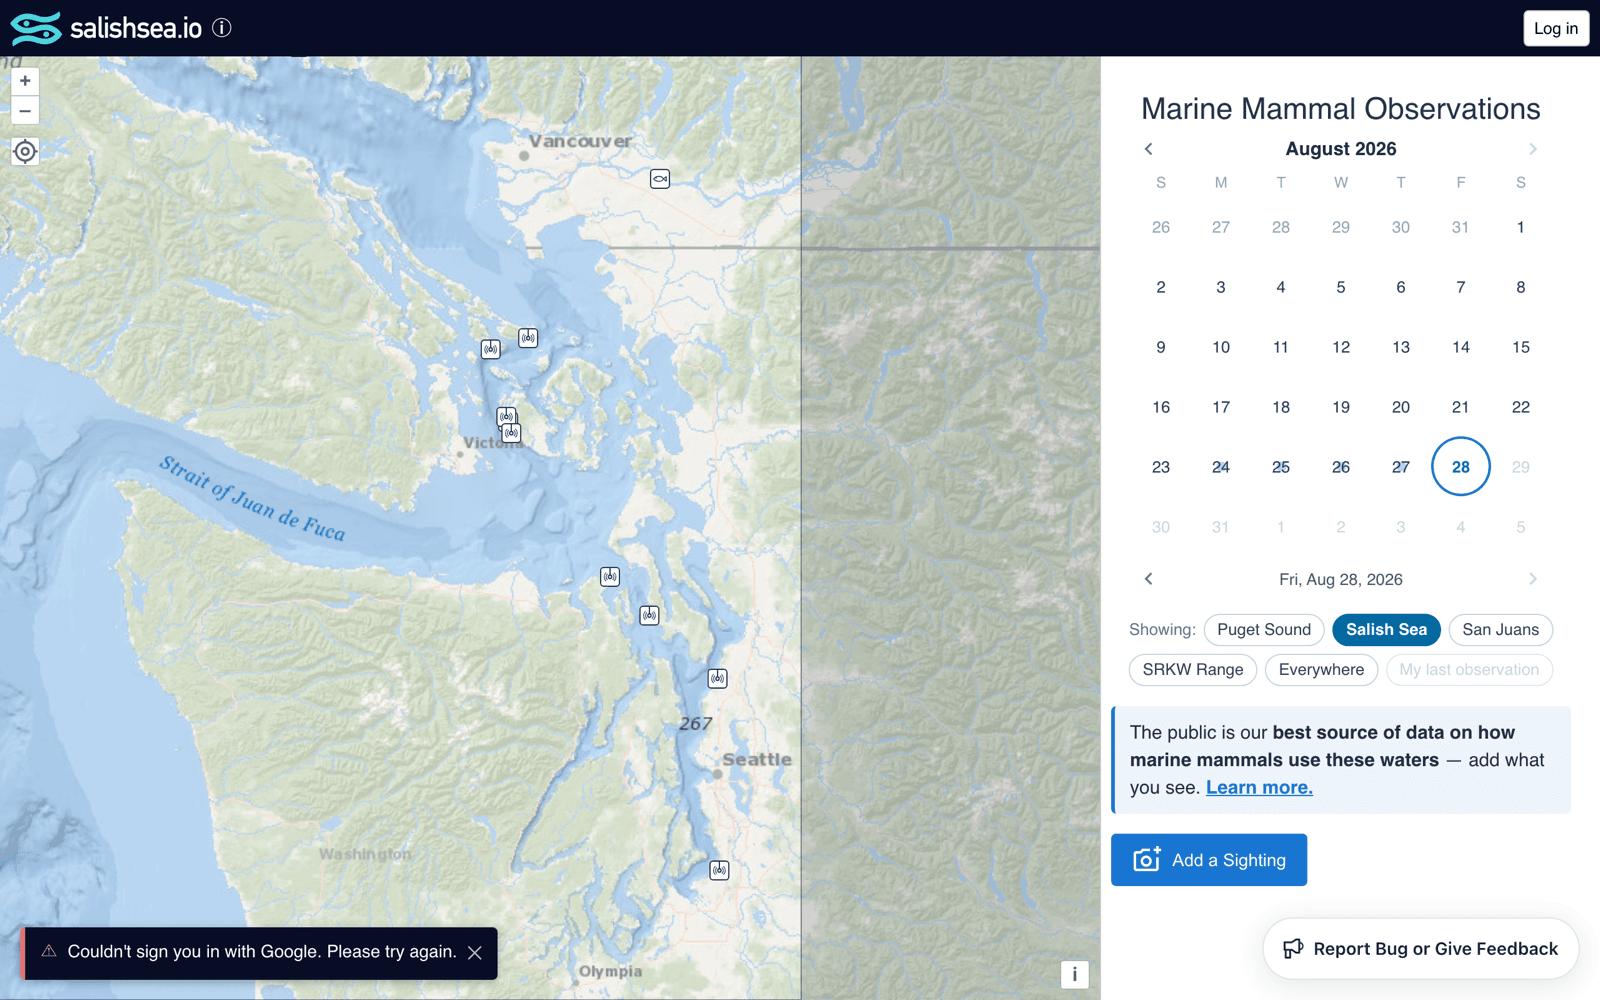
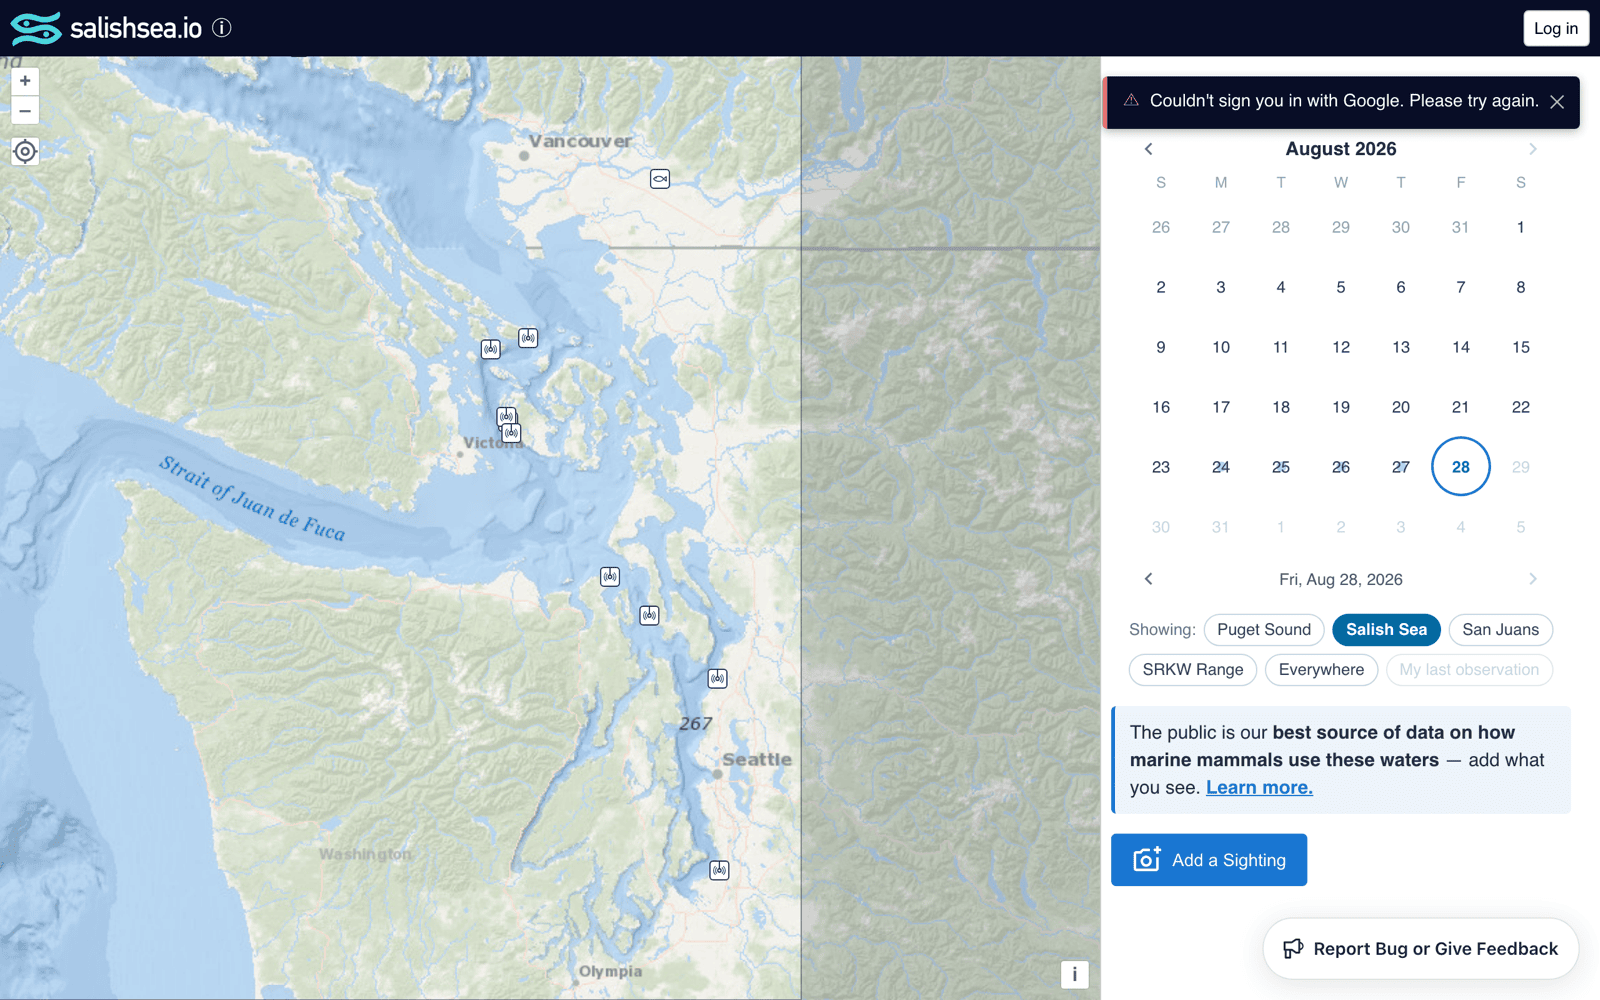
Move the toast under the button that triggers it
It first went bottom-left, over open water — the calmest place to put it
and the wrong one. The Log in button is in the opposite corner, and
someone who clicks it and sees nothing change has concluded the button
is broken before their eye reaches the message. It now hangs from the
top-right of `main`: under the Log in button, over the top of the
sightings panel where deleting happens, and positioned against `main`
so it clears the header without hardcoding the header's height.

Also closes two gaps CodeRabbit found, both real:

- A rejected signInWithIdToken promise reached a bare console.error
  rather than the reporting path its returned-error sibling uses, so a
  network failure during the exchange showed nothing and told Sentry
  nothing.
- A failed occurrence load reported even when the user had already moved
  to another date or region, which would claim a current, complete list
  was incomplete. Now guarded exactly as receiveOccurrences guards the
  success path, and for the same reason.

Claude-Session: https://claude.ai/code/session_01CHL7U2jAph4QaFN7eeCYrP

Changed region(s): [[0.6875, 0.062, 1.0, 0.155], [0.0, 0.93, 0.3125, 0.992]]

diff --git a/src/salish-sea.ts b/src/salish-sea.ts
@@ -117,6 +117,9 @@ export default class SalishSea extends LitElement {
 
     main {
       display: flex;
+      /* The toast hangs from this corner, so it clears the header without
+         anyone having to hardcode the header's height. */
+      position: relative;
       flex-direction: row;
       flex-grow: 1;
       min-height: 0;
@@ -385,14 +388,15 @@ export default class SalishSea extends LitElement {
             `;
           })}
         </obs-panel>
+        <error-toast ${ref(this.errorToastRef)}></error-toast>
       </main>
-      <error-toast ${ref(this.errorToastRef)}></error-toast>
     `;
   }
 
   doLogIn() {
     promptGoogleSignIn((token, nonce) => {
-      this.receiveIdToken(token, nonce).catch(err => console.error(err));
+      this.receiveIdToken(token, nonce).catch(err =>
+        reportError(this, "Couldn't sign you in with Google. Please try again.", {cause: err}));
     }).catch(err => reportError(this, "Couldn't reach Google to sign in. An ad blocker may be blocking it.", {cause: err}));
   }
 
@@ -521,9 +525,14 @@ export default class SalishSea extends LitElement {
         .order('observed_at', {ascending: false})
         .throwOnError());
     } catch (err) {
+      // Same staleness guard as receiveOccurrences, for the same reasons: a
+      // slow request for the day or region you just left must not speak for
+      // the one you are looking at now, and here it would claim the current,
+      // complete list is incomplete.
       // Persist: an empty list is indistinguishable from a quiet day, so a
       // message that times out would leave the map lying about the water.
-      reportError(this, "Couldn't load sightings. The list may be incomplete.", {cause: err, persist: true});
+      if (date === this.date && region.slug === this.#region.slug)
+        reportError(this, "Couldn't load sightings. The list may be incomplete.", {cause: err, persist: true});
       return;
     }
 

diff --git a/src/error-toast.ts b/src/error-toast.ts
@@ -5,19 +5,26 @@ import { customElement, state } from 'lit/decorators.js';
 export const DISMISS_AFTER_MS = 8_000;
 
 /**
- * The app's one way of telling someone that something failed. It sits over the
- * bottom-left of the map: clear of `user-location-control` (top-left) and of
- * Sentry's feedback button (bottom-right), and out of the layout, so nothing
- * reflows when a failure appears.
+ * The app's one way of telling someone that something failed.
+ *
+ * It hangs from the top-right of the content area, directly under the Log in
+ * button and over the top of the sightings panel — the two places a person is
+ * when an action of theirs fails. Feedback far from the control that produced
+ * it is feedback nobody reads. It is positioned against `main` rather than the
+ * page so it clears the header without anyone hardcoding the header's height,
+ * and it stays out of the layout, so nothing reflows when a failure appears.
+ *
+ * Top-left holds `user-location-control` and bottom-right holds Sentry's
+ * feedback button; this corner is free in both layouts.
  */
 @customElement('error-toast')
 export default class ErrorToast extends LitElement {
   static styles = css`
     :host {
-      bottom: 1rem;
-      left: 1rem;
       pointer-events: none;
       position: absolute;
+      right: 1rem;
+      top: 1rem;
       z-index: 2;
     }
     .toast {

diff --git a/docs/decisions/031-surfacing-failures.md b/docs/decisions/031-surfacing-failures.md
@@ -23,11 +23,18 @@ weeks, until someone mentioned in passing that they could not sign in.
 
 ## Decision
 
-**One toast, owned by `<salish-sea>`.** [`error-toast.ts`](../../src/error-toast.ts) sits over
-the bottom-left of the map — clear of `user-location-control` above it and Sentry's feedback
-button opposite — and out of the layout, so nothing reflows when a failure appears. The newest
-failure replaces the current one rather than stacking: a pile of toasts over the map is worse
-than the latest fact about what is broken.
+**One toast, owned by `<salish-sea>`.** [`error-toast.ts`](../../src/error-toast.ts) hangs from
+the top-right of the content area, directly under the Log in button and over the top of the
+sightings panel — the two places a person is when an action of theirs fails. It is positioned
+against `main` rather than the page, so it clears the header without anyone hardcoding the
+header's height, and it stays out of the layout, so nothing reflows when a failure appears.
+The newest failure replaces the current one rather than stacking: a pile of toasts over the map
+is worse than the latest fact about what is broken.
+
+It first went bottom-left, over open water, which is the calmest place to put it and the wrong
+one. Feedback that far from the control that produced it is feedback nobody reads: the Log in
+button is in the opposite corner, and a person who clicks it and sees nothing change has
+already concluded the button is broken before their eye reaches the message.
 
 **One call reports to both audiences.** [`reportError(source, message, {cause, persist})`](../../src/report-error.ts)
 captures to Sentry *and* dispatches a `report-error` event that bubbles composed to
@@ -47,7 +54,7 @@ that never loaded is the case that forced the distinction.
 |---|---|---|
 | Surface | `rgb(8, 13, 38)` | The header's navy, so a failure reads as chrome rather than map content |
 | Accent | `rgb(229, 115, 115)` | Left rule and ⚠ glyph; the only colour this pattern introduces |
-| Anchor | bottom `1rem`, left `1rem` | Clear of `user-location-control` (top-left) and the feedback button (bottom-right) |
+| Anchor | top `1rem`, right `1rem` of `main` | Under the Log in button; clear of `user-location-control` (top-left) and the feedback button (bottom-right) |
 
 ## Rejected alternatives
 
@@ -63,6 +70,12 @@ on screen and would have produced three unrelated treatments of the same idea.
 
 **Letting `reportError` do only the user-facing half.** Tidier separation, and it would have
 left the Sentry call at each site where someone can forget it. The coupling is the point.
+
+**Stale failures stay quiet.** A failed occurrence load reports only if its date and region
+still match what is on screen, the same guard `receiveOccurrences` applies to a successful one
+and for the same reason — a slow request for the day you just left must not speak for the day
+you are looking at. Without it, a late failure would claim a current, complete list was
+incomplete.
 
 ## Consequences
 
